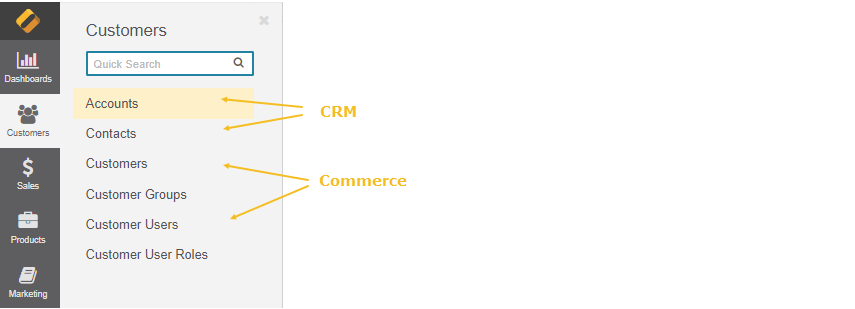
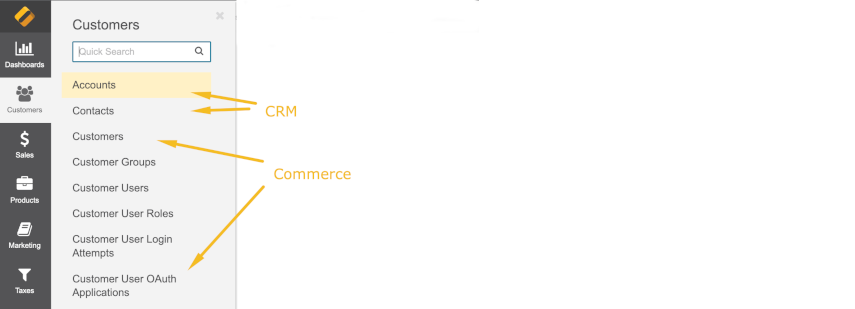
BAP-11576: Login Attempts Login UI (#31932)

Changed region(s): [[0.0, 0.0, 0.4257, 1.0], [0.1825, 0.4369, 0.4865, 0.699], [0.3041, 0.0291, 0.3345, 0.0874]]

diff --git a/user/back-office/customers/customer-user-oauth-app/index.rst b/user/back-office/customers/customer-user-oauth-app/index.rst
@@ -1,13 +1,13 @@
 :oro_documentation_types: OroCommerce
 
-.. _storefront-oauth-app:
+.. _customer-user-oauth-app:
 
-Manage Storefront OAuth Applications in the Back-Office
-=======================================================
+Manage Customer User OAuth Applications in the Back-Office
+==========================================================
 
 The section contains the list of all OAuth applications created for customer users in the back-office. You can view and manage the existing OAuth applications, create new applications selecting the necessary grant type depending on your business needs, either client credentials or a password.
 
-.. image:: /user/img/system/storefront_oauth_app/storefront_oauth_app_list.png
+.. image:: /user/img/customers/customer_user_oauth_app/customer_user_oauth_app_list.png
    :alt: A list of all existing oauth applications
 
 
@@ -18,13 +18,13 @@ The section contains the list of all OAuth applications created for customer use
 .. note:: For the details on how to add an OAuth application to a selected user in the back-office, refer to the :ref:`Add OAuth applications to a selected customer user <user-guide--customers--customer-users--oauth>` topic.
 
 
-.. |path| replace:: **System > User Management > OAuth Applications**
+.. |path| replace:: **Customers > Customer User OAuth Applications**
 
-.. |image_app_create| image:: /user/img/system/storefront_oauth_app/storefront_oauth_app_create.png
+.. |image_app_create| image:: /user/img/customers/customer_user_oauth_app/customer_user_oauth_app_create.png
 
-.. |image_credentials| image:: /user/img/system/storefront_oauth_app/storefront_oauth_app_credentials.png
+.. |image_credentials| image:: /user/img/customers/customer_user_oauth_app/customer_user_oauth_app_credentials.png
 
-.. |image_app_actions| image:: /user/img/system/storefront_oauth_app/storefront_oauth_app_actions.png
+.. |image_app_actions| image:: /user/img/customers/customer_user_oauth_app/customer_user_oauth_app_actions.png
 
 
 

diff --git a/user/back-office/system/index.rst b/user/back-office/system/index.rst
@@ -15,7 +15,6 @@ The **System** menu of the back-office contains post-install configuration setti
 
 * :ref:`Configuration <mc-system-configuration>` --- Manage system settings and settings specific for CRM, Commerce and marketing features.
 * :ref:`User Management <user-guide-user-management>` --- Configure user, role and access management in the application and determine levels of access to data.
-* :ref:`Storefront OAuth Applications <storefront-oauth-app>` --- Create and manage all available OAuth applications for customer users.
 * :ref:`Contact Reasons <admin-guide-contact-reasons>` --- Manage contact reasons used to categorize contact requests submitted through your website.
 * :ref:`Contact Groups <contact_groups>` --- Create and manage contact groups.
 * :ref:`Emails <admin-guide-email-configuration>` --- Create and manage templates, notification rules and maintenance notifications.
@@ -37,6 +36,7 @@ The **System** menu of the back-office contains post-install configuration setti
 * :ref:`Consent Management <system-consent-management>` --- Create and manage consents to comply with General Data Protection Regulations.
 * :ref:`Websites <system-websites>` --- Create multiple individually configured websites in the same application instance.
 * :ref:`Localization <sys--config--sysconfig--general-setup--localization>` --- Translate and adapt products for a specific country or region.
+* :ref:`Alerts <dev-integrations-notification-alerts>` --- System notification alerts.
 
 .. _configuration--guide--config-levels:
 .. _doc-system-configuration:
@@ -57,7 +57,6 @@ Oro applications enable you to configure system settings on four configuration l
 
    Configuration <configuration/index>
    User Management <user-management/index>
-   Storefront OAuth Applications <storefront-oauth-app/index>
    Contact Reasons <contact-reasons/index>
    Contact Groups <contact-groups/index>
    Emails <emails/index>

diff --git a/user/back-office/customers/login-attempts/index.rst b/user/back-office/customers/login-attempts/index.rst
@@ -1,0 +1,29 @@
+:oro_documentation_types: OroCommerce
+
+.. _user-guide--customers--customer-login-attempts:
+
+Customer User Login Attempts
+============================
+
+To simplify investigation of any security-related incidents, the administrator can check the successful and unsuccessful
+login attempts of customer users.
+
+The login info data is stored in the database and in the logs in the **security** log channel. The logs have the ID parameter used in the database to enable you to find a particular log item quickly.
+
+The list of all customer user login attempts is available under **Customers > Customer User Login Attempts** in the main back-office menu. 
+
+.. image:: /user/img/customers/login_attempts/login_attempts.png
+   :alt: Customer User Login Attempts
+
+The administrator can also open this list directly from the customer user view page by clicking on the link with the date of the  last login:
+
+.. image:: /user/img/customers/login_attempts/customer_user_view_page.png
+   :alt: Link to Customer User Login Attempts on View Page
+
+In this case, the data in datagrid will be filtered by this customer user:
+
+.. image:: /user/img/customers/login_attempts/filtered_login_attempts.png
+   :alt: Filtered Customer User Login Attempts
+
+.. include:: /include/include-images.rst
+   :start-after: begin

diff --git a/user/back-office/system/user-management/login-attempts/index.rst b/user/back-office/system/user-management/login-attempts/index.rst
@@ -1,0 +1,30 @@
+:oro_documentation_types: OroCRM, OroCommerce
+:oro_show_local_toc: false
+
+.. _user-guide-user-management-login-attempts:
+
+Login Attempts
+==============
+
+To simplify investigation of any security-related incidents, the administrator can check the successful and unsuccessful
+login attempts.
+
+The login info data is stored in the database and in the logs in the **security** log channel. The logs have the ID parameter used in the database to enable you to find a particular log item quickly.
+
+The list of all login attempts is available under **System > User Management > Login Attempts** in the main back-office menu. 
+
+.. image:: /user/img/system/user_management/login_attempts/login_attempts.png
+   :alt: Login Attempts
+
+The administrator can also open this list directly from the customer user view page by clicking on the link with the date of the  last login:
+
+.. image:: /user/img/system/user_management/login_attempts/user_view_page.png
+   :alt: Link to Login Attempts on View Page
+
+In this case, the data in datagrid will be filtered by this user:
+
+.. image:: /user/img/system/user_management/login_attempts/filtered_login_attempts.png
+   :alt: Filtered Login Attempts
+
+.. include:: /include/include-images.rst
+   :start-after: begin

diff --git a/user/back-office/system/user-management/index.rst b/user/back-office/system/user-management/index.rst
@@ -56,6 +56,11 @@ OAuth Applications
 
 The section aggregates information on all OAuth applications created for users in the back-office. Here, you can view and manage the existing OAuth applications, create new ones, and get access tokens through the applications with client credentials and passwords grant types. Check out the :ref:`OAuth Applications <oauth-applications>` topic for more details on how to add the application both from the Oro and third-party sides.
 
+Login Attempts
+--------------
+
+The section aggregates the login info data in one datagrid. This simplifies investigation of any security-related incidents.
+Check out the :ref:`Login Attempts <user-guide-user-management-login-attempts>` topic for more details.
 
 .. toctree::
    :hidden:
@@ -66,6 +71,7 @@ The section aggregates information on all OAuth applications created for users i
    User Groups <groups/index>
    Business Units <business-units/index>
    Organizations <organizations/index>
+   Login Attempts <login-attempts/index>
    OAuth Applications <oauth-app>
 
 .. include:: /include/include-images.rst

diff --git a/user/back-office/system/data-audit/index.rst b/user/back-office/system/data-audit/index.rst
@@ -137,7 +137,7 @@ To simplify investigation of any security-related incidents, the application kee
 * Autodeactivation email has been sent
 * Reset password email has been sent
 
-The log is stored in the database in the *oro_logger_log_entry* table.
+The log is stored in the *security* log channel.
 
 .. image:: /user/img/system/data_audit/oro_logger_log_entry.png
    :alt: Record login details in a database table
@@ -152,6 +152,8 @@ In addition to the type of the security event, the following details are recorde
 * last login date and time
 * user creation date and time
 * IP address
+
+Login attempts can be accessed from the back-office UI. See :ref:`Login Attempts UI <user-guide-user-management-login-attempts>` for more information.
 
 **Related Topics**
 

diff --git a/user/back-office/customers/customer-users/index.rst b/user/back-office/customers/customer-users/index.rst
@@ -174,7 +174,7 @@ You can add as many applications as you need for any of your existing organizati
 
 Use the generated Client ID and Client Secret to retrieve an access token to connect to your Oro application.
 
-.. note:: For the aggregated information on all OAuth applications created by customer users in the back-office, refer to the general :ref:`Storefront OAuth Applications <storefront-oauth-app>` topic.
+.. note:: For the aggregated information on all OAuth applications created by customer users in the back-office, refer to the general :ref:`Customer User OAuth Applications <customer-user-oauth-app>` topic.
 
 
 .. include:: /include/include-images.rst

diff --git a/bundles/platform/OAuth2ServerBundle/index.rst b/bundles/platform/OAuth2ServerBundle/index.rst
@@ -76,7 +76,7 @@ The default configuration of OroOAuth2ServerBundle is illustrated below:
 Manage OAuth Applications
 -------------------------
 
-See :ref:`Manage OAuth Applications <oauth-applications>` and :ref:`Manage Storefront OAuth Applications <storefront-oauth-app>`.
+See :ref:`Manage OAuth Applications <oauth-applications>` and :ref:`Manage Customer User OAuth Applications <customer-user-oauth-app>`.
 
 .. _bundle-docs-platform-oauth2-server-bundle--create-app-via-data-fixtures:
 

diff --git a/api/authentication/oauth.rst b/api/authentication/oauth.rst
@@ -18,7 +18,7 @@ It is implemented by the :ref:`OroOAuth2ServerBundle <bundle-docs-platform-oauth
 |OAuth 2.0 Authorization Code Grant|, |OAuth 2.0 Client Credentials Grant| and |OAuth 2.0 Password Grant|.
 
 For more details, see :ref:`Manage OAuth Applications <oauth-applications>`
-and :ref:`Manage Storefront OAuth Applications <storefront-oauth-app>`.
+and :ref:`Manage Customer User OAuth Applications <customer-user-oauth-app>`.
 
 Generate Tokens
 ---------------

diff --git a/user/back-office/customers/index.rst b/user/back-office/customers/index.rst
@@ -38,3 +38,5 @@ Below is an illustration of the account hierarchy where CRM-related concepts are
    Customer Users <customer-users/index>
    Customer User Roles <customer-user-roles/index>
    Business Customers <business-customers/index>
+   Customer User Login Attempts <login-attempts/index>
+   Customer User OAuth Applications <customer-user-oauth-app/index>
